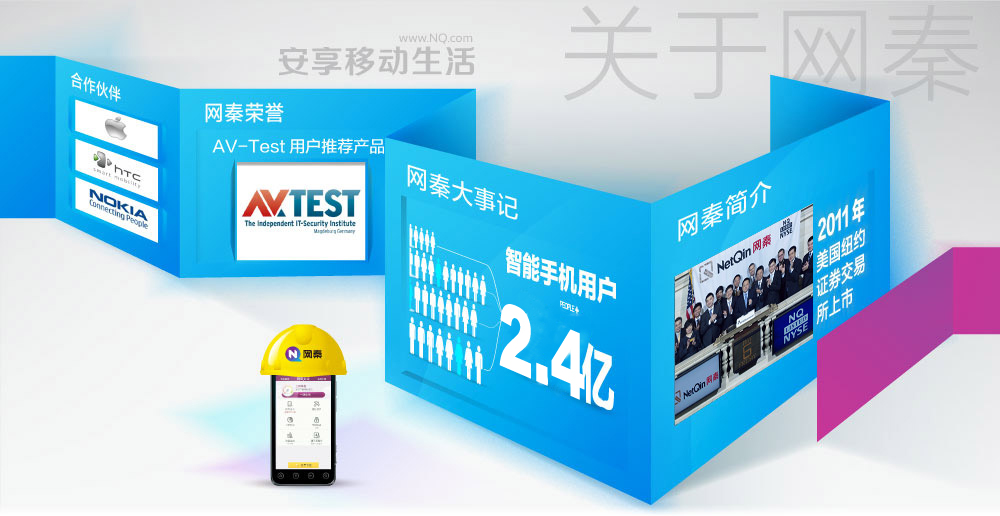
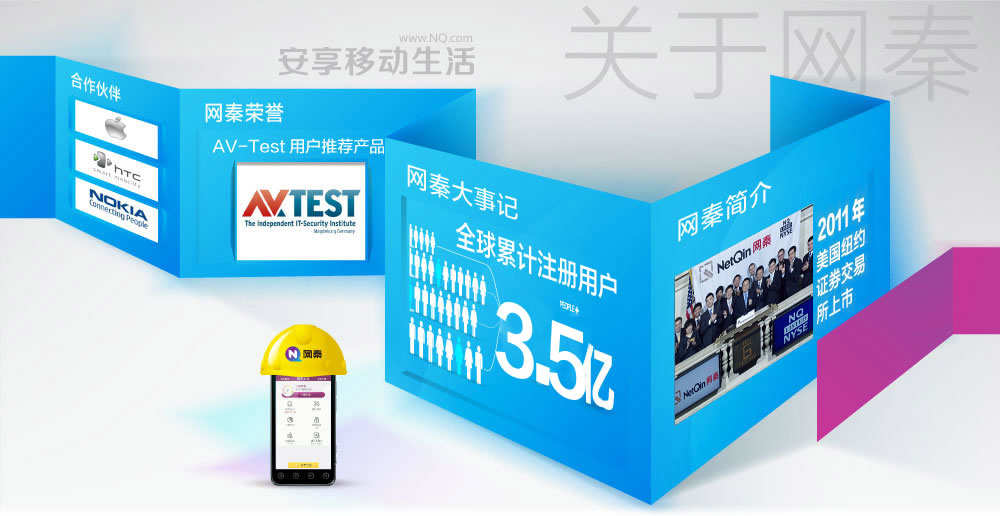
用户数量更新

Changed region(s): [[0.434, 0.4341, 0.62, 0.5891], [0.496, 0.5891, 0.589, 0.7752]]

diff --git a/nq_html/index.html b/nq_html/index.html
@@ -193,7 +193,7 @@
             </td>
             <td></td>
             <td>
-            <table height="150px"><tr><td height="5px"></td></tr><tr><td class="ab" height="15px"></td></tr><tr><td height="20px"></td></tr><tr><td class="aa" height="20px"><a href="http://cn.nq.com/guanyu/">关于网秦</a></td></tr><tr><td class="ad" height="65px"><a href="http://cn.nq.com/guanyu/">2011年纽交所上市<br />全球2.4亿用户<br />顶级安全机构认证</a></td></tr><tr><td height="25px"></td></tr></table>
+            <table height="150px"><tr><td height="5px"></td></tr><tr><td class="ab" height="15px"></td></tr><tr><td height="20px"></td></tr><tr><td class="aa" height="20px"><a href="http://cn.nq.com/guanyu/">关于网秦</a></td></tr><tr><td class="ad" height="65px"><a href="http://cn.nq.com/guanyu/">2011年纽交所上市<br />全球3.5亿累计注册用户<br />顶级安全机构认证</a></td></tr><tr><td height="25px"></td></tr></table>
             </td></tr>
         </table>
     </td>

diff --git a/nq_html/guanyu/index.html b/nq_html/guanyu/index.html
@@ -155,10 +155,10 @@ $(function(){
 </table>
 <table width="980" border="0" align="center" cellpadding="0" cellspacing="0">
   <tr>
-    <td height="50" valign="top" class="tit_hei2">截止2012年9月底，网秦已经为</td>
+    <td height="50" valign="top" class="tit_hei2">截止2012年12月底，网秦已经为</td>
   </tr>
   <tr>
-    <td height="80" align="center" valign="top" class="tit_hei2"><span class="tit_lan0">全球100多个国家</span> 提供全面的手机安全保护服务</td>
+    <td height="80" align="center" valign="top" class="tit_hei2"><span class="tit_lan0">全球100多个国家</span> 累计注册用户</td>
   </tr>
   <tr>
     <td align="center"><img src="images/A01_img02_img.jpg" width="888" height="246" /></td>
